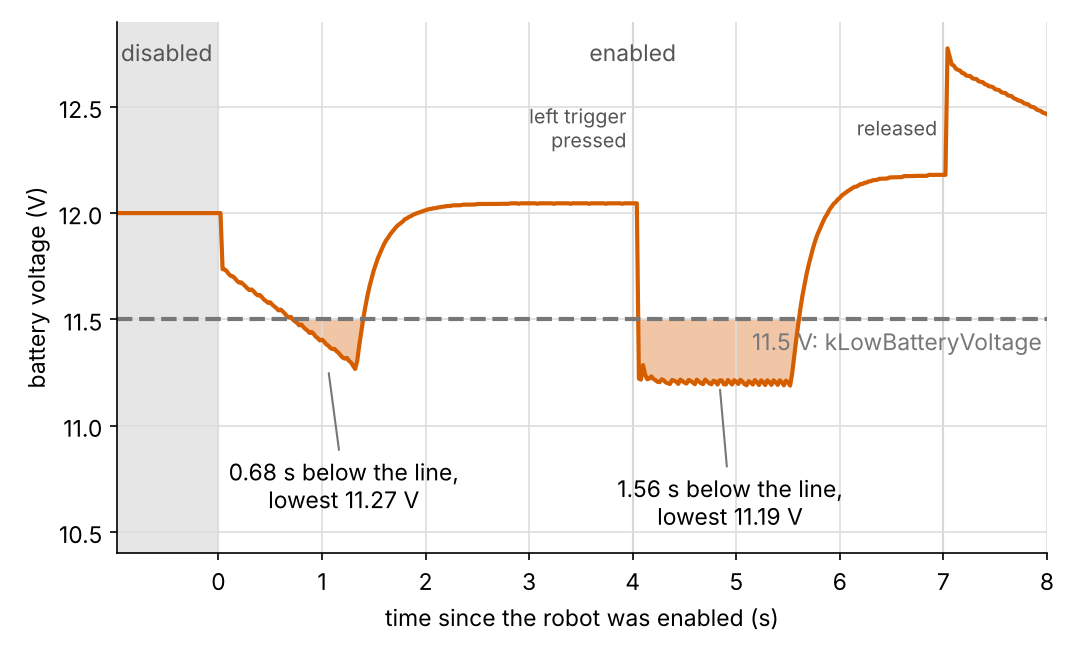
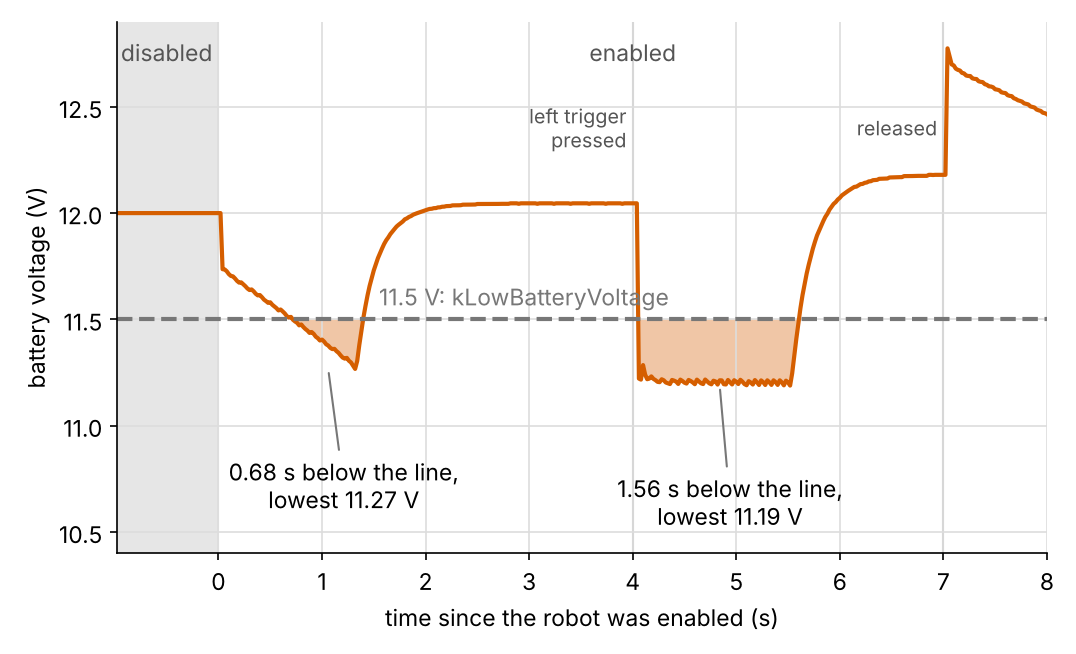
WIP: batch 2 Lessons 26, 27, 30 in progress (agents still working, not yet reviewed)
Claude-Session: https://claude.ai/code/session_014noufzZPwt8bnk7MXpYg6T

Changed region(s): [[0.3374, 0.4281, 0.6134, 0.4893], [0.7667, 0.4893, 0.9814, 0.5505], [0.7054, 0.4893, 0.7361, 0.5505]]

diff --git a/tools/figures/30-low-battery-gate.py b/tools/figures/30-low-battery-gate.py
@@ -39,7 +39,7 @@ def main():
                     color=figstyle.MEASURED, alpha=0.35, linewidth=0)
     ax.plot(t, v, color=figstyle.MEASURED, label="Power/BatteryVolts")
     ax.axhline(LIMIT_V, color=figstyle.NEUTRAL, linestyle="--")
-    ax.text(2.0, LIMIT_V - 0.04, "11.5 V: kLowBatteryVoltage", color=figstyle.NEUTRAL, ha="left", va="top")
+    ax.text(1.55, LIMIT_V + 0.04, "11.5 V: kLowBatteryVoltage", color=figstyle.NEUTRAL, ha="left", va="bottom")
     ax.axvline(SHOT_S, color="#bbbbbb", linewidth=1, zorder=0)
     ax.axvline(RELEASE_S, color="#bbbbbb", linewidth=1, zorder=0)
     ax.text(SHOT_S - 0.06, 12.4, "left trigger\npressed", va="center", ha="right", fontsize=9.5, color="#555555")

diff --git a/docs/lessons/v3/26-drive-to-pose.md b/docs/lessons/v3/26-drive-to-pose.md
@@ -196,6 +196,13 @@ along x. **After that rotation, x is how far along the line, and y is how
 far off to the left.** To turn a speed along the line and a speed across it
 back into field speeds, rotate the other way.
 
+<a id="figure-26-1"></a>
+![Top-down view of the drive from S at (1, 1) to T at (5, 4): the line between them is split at the handoff point, one metre short of T, into stage one (blue, travelToward) and stage two (orange, approach); the robot sits 2.0 m along the line and 0.8 m to its left, with x-prime along the line, y-prime across it, the plan's speed along the line, the P push back toward the line, and their sum](images/26-line-frame-stages.svg)
+
+*Figure 26.1 — The line's frame and the two stages, for the (1, 1) to (5, 4) drive. The robot's position is an example, not a measurement.*
+
+Figure 26.1 draws it. Start at S: the line to T is fixed, and x′ and y′ are measured from S along it and across it. The robot sits 2.0 m along and 0.8 m to the left of the line, so its offset is x′ = 2.0 and y′ = +0.8. The blue arrow is what the plan says to do, a speed along the line. The orange arrow is the cross-track P push, `kCrossTrackP` times y′, aimed along −y′ back toward the line. Add them and you get the dashed arrow, which is still in the line's frame; rotating it the other way turns it into the field speeds the drivetrain is asked for. The line is also split in two: stage one runs from S to the handoff point, a metre short of T (the 1.0 m you met in section 3), and stage two takes over from there. Section 6 puts numbers on both stages.
+
 > Why a fixed line, instead of pointing at the target afresh every tick?
 > Because the line stays put while the stage runs. If the robot rolls a
 > little past the target, "how far along" just reads a little past the
@@ -657,12 +664,12 @@ peaks above 4 m/s² at the start are what you'd expect from the P term: the
 wheels take a moment to spin up, the robot falls behind the plan, and P
 pushes to catch it up.
 
-<a id="figure-26-1"></a>
+<a id="figure-26-2"></a>
 ![Speed along the line against time for the (1, 1) to (5, 4) drive: the two-stage plan is a trapezoid that peaks at 3 m/s, steps down at the handoff and slows to a stop, with the measured speed tracking it closely; the old design launches to about 4 m/s in under half a second and then decays slowly into the handover; below, measured minus plan speed peaks at +0.3 m/s while the plan slows](images/26-two-stage-speed.png)
 
-*Figure 26.1 — Speed along the line from (1, 1) to (5, 4), two stages against the old design. One run each. The blue plan line was read out of the controller by a test, so your own logs won't have it.*
+*Figure 26.2 — Speed along the line from (1, 1) to (5, 4), two stages against the old design. One run each. The blue plan line was read out of the controller by a test, so your own logs won't have it.*
 
-Figure 26.1 plots both designs on one set of axes, and the shape of each curve is
+Figure 26.2 plots both designs on one set of axes, and the shape of each curve is
 the whole story. Read the top panel first. The thick blue line is the plan, the
 speed the profile asked for on each tick, and the orange line on top of it is how
 fast the robot really went. The grey line is the old design.

diff --git a/docs/lessons/v3/27-aim-at-tag.md b/docs/lessons/v3/27-aim-at-tag.md
@@ -281,8 +281,8 @@ away and it swings half as fast.
 
 Figure 27.1 draws it. The robot's velocity has two parts. The part along the line to the tag, the blue arrow, only moves the robot closer or farther, so the sight line keeps pointing the same way. The part across the line, the orange arrow, is the one that makes the bearing swing, and it's the only one that counts. Compare the two panels: the same sideways step turns the sight line through a big angle at 3 m and a small one at 6 m, which is the "twice as far, half as fast" of the paragraph above. The rate is **v⊥ ÷ r**: 3 ÷ 3 = 1.0 rad/s at 3 m (the number from section 4) and 3 ÷ 6 = 0.5 rad/s at 6 m.
 
-That's the cross product of the robot's velocity with the direction to the
-target, divided by the distance squared.
+In code, that's the cross product of the robot's velocity with the direction to
+the target, divided by the distance squared.
 
 **Add to `Aim`, below `error`:**
 
